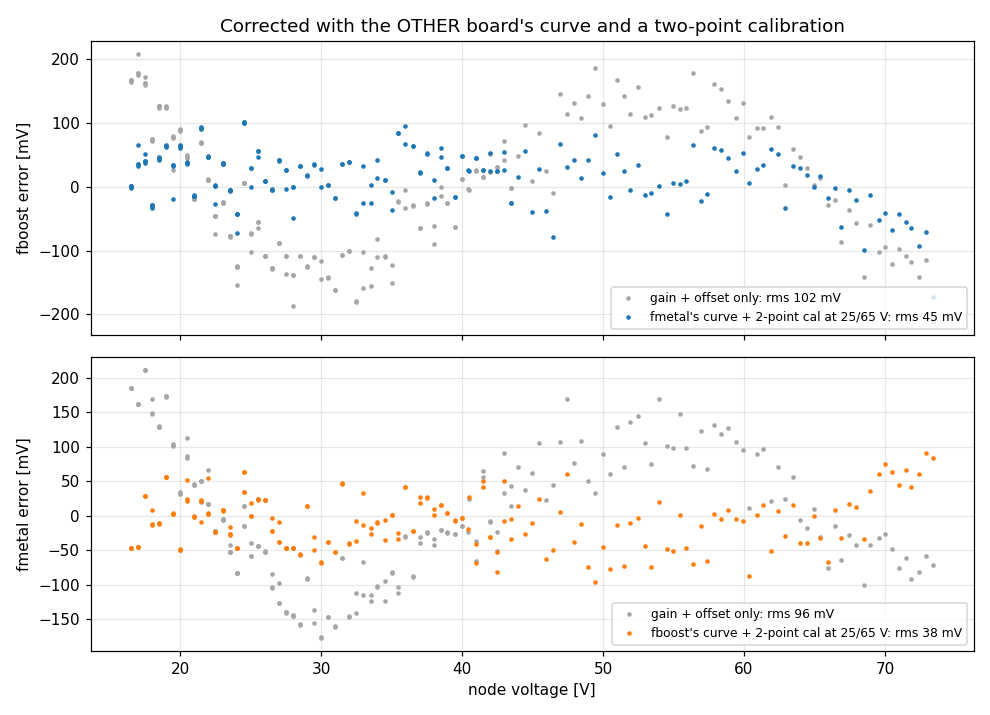
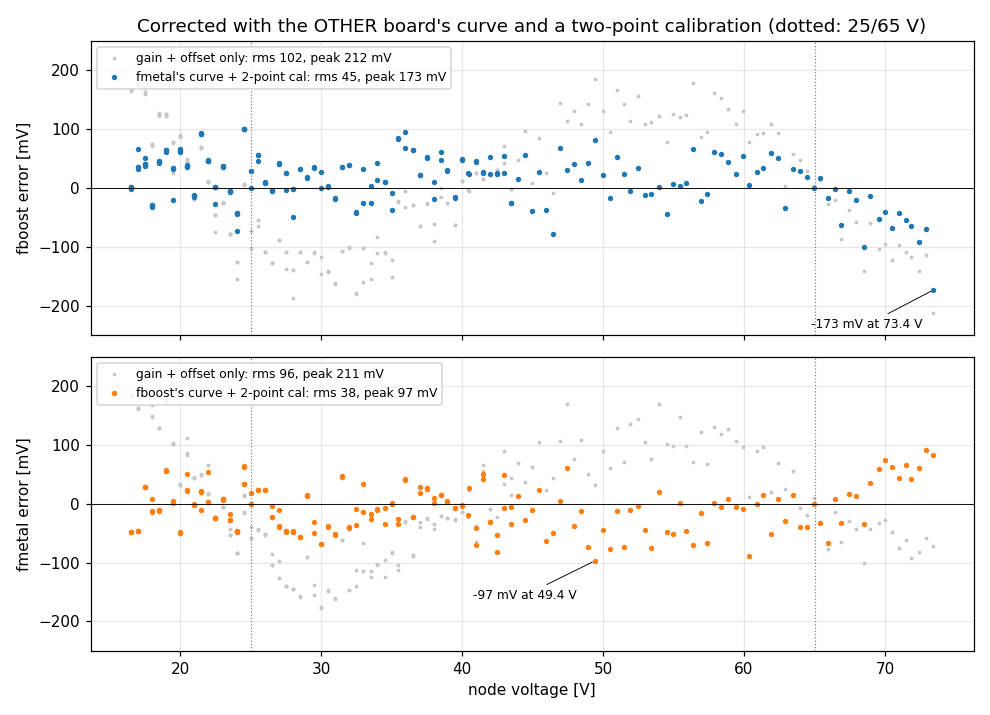
doc: ESP32 ADC -- review fixes, clearer charts, merged firmware and measured board cal
Codex review of be25373:
- range is 16.5-73.4 V at the node (570-2658 mV are IDF readings)
- fboost's worst transfer point is at the top rung, not the bottom
- gain difference: same eFuse point, so board or residual chip -- not separable here
- repeatability holds where the runs overlap (16.5-43.5 V); the 35 mV floor is a
  degree-5 residual, the operating-point cause a hypothesis
- IDF bottom panel limited to the fitted range, detrending convention stated;
  readback compared at the step-1 value
- charts: zero lines, findings in titles, legends off the data, peak in legends,
  25/65 V markers, taper dashed, reference zoom inset, fitted lines on raw error

Firmware is merged (eb8f6a1) and on fboost/fmetal; per-board keys are
hv_v_gain/hv_v_offset; table now holds the measured two-point values.

diff --git a/doc/esp32-adc/plots.py b/doc/esp32-adc/plots.py
@@ -61,11 +61,15 @@ e = line_resid(hh.HP.values, hh.U2.values)
 out['ref'] = (len(hh), rms(e) * 1e3, abs(e).max() * 1e3)
 fig, ax = plt.subplots(figsize=(9, 3.6))
 ax.plot(hh.HP, e * 1e3, '.', color='C2', ms=4)
-ax.set(xlabel='HP3458A [V]', ylabel='INA228_2 INL vs HP3458A [mV]',
-       title='The reference: INA228_2 against the HP3458A, %d rungs (Aug 2026)' % len(hh))
+ax.axhline(0, color='k', lw=.6)
+ax.set(xlabel='HP3458A [V]', ylabel='INA228_2 minus its best line vs HP3458A [mV]',
+       title='The reference is linear: INA228_2 against the HP3458A, %d rungs (Aug 2026)' % len(hh))
 ax.set_ylim(-250, 250); ax.grid(alpha=.3)
-ax.text(.01, .93, 'rms %.2f mV, peak %.2f mV -- on the scale of the plots that follow, flat'
+ax.text(.01, .93, 'best-fit gain and offset removed; rms %.2f mV, peak %.2f mV, flat on the scale of the plots that follow'
         % out['ref'][1:], transform=ax.transAxes, fontsize=9)
+ins = ax.inset_axes([.62, .08, .36, .32])
+ins.plot(hh.HP, e * 1e3, '.', color='C2', ms=2); ins.set_ylim(-2, 2); ins.axhline(0, color='k', lw=.5)
+ins.set_title('zoom ±2 mV', fontsize=8); ins.tick_params(labelsize=7); ins.grid(alpha=.3)
 save(fig, 'reference.png')
 
 # ---------------------------------------------------------------- 2. raw error, both boards
@@ -75,9 +79,14 @@ ax.plot(ga.HP, (ga.fboost - ga.HP) * 1e3, '.', color='0.65', ms=4, label='fboost
 for b in BOARDS:
     g = board(b)
     ax.plot(g.U, (g[b] - g.U) * 1e3, '.', color=COL[b], ms=4, label='%s vs INA228_2 (Oct, dense)' % b)
+for b in BOARDS:
+    g = board(b); co_ = np.polyfit(g.U, g[b] - g.U, 1); xs_ = np.array([g.U.min(), g.U.max()])
+    ax.plot(xs_, np.polyval(co_, xs_) * 1e3, '-', color=COL[b], lw=1,
+            label='%s line: %+.2f %% gain, %+.2f V offset' % (b, co_[0] * 100, co_[1]))
+ax.axhline(0, color='k', lw=.6)
 ax.set(xlabel='node voltage [V]', ylabel='reading - reference [mV]',
-       title='Raw error of the ESP32-S3 ADC1 voltage reading (IDF curve-fitting calibration)')
-ax.grid(alpha=.3); ax.legend(fontsize=8)
+       title='Voltage error after IDF calibration, before board calibration')
+ax.grid(alpha=.3); ax.legend(fontsize=8, loc='upper left')
 save(fig, 'raw-error.png')
 
 # ---------------------------------------------------------------- 3. INL: the shared S-curve
@@ -90,9 +99,10 @@ for b in BOARDS:
     e = line_resid(g.U.values, g[b].values)
     out['inl_' + b] = (rms(e) * 1e3, abs(e).max() * 1e3, len(g))
     ax.plot(g.U, e * 1e3, '.', color=COL[b], ms=4, label='%s (Oct), rms %.0f mV' % (b, rms(e) * 1e3))
-ax.set(xlabel='node voltage [V]', ylabel='INL vs own best line [mV]',
-       title='Same S-curve on both boards, and on fboost two months apart')
-ax.grid(alpha=.3); ax.legend(fontsize=8)
+ax.axhline(0, color='k', lw=.6); ax.set_ylim(-250, 250)
+ax.set(xlabel='node voltage [V]', ylabel='error minus each series\' own best line [mV]',
+       title='Similar S-curve on two boards, and on fboost in August and October')
+ax.grid(alpha=.3); ax.legend(fontsize=8, loc='lower center', ncol=3, bbox_to_anchor=(.5, -.32))
 save(fig, 'inl.png')
 
 # ---------------------------------------------------------------- 4. repeatability across runs
@@ -102,9 +112,13 @@ co = np.polyfit(g.U[run1[g.index]], g.fboost[run1[g.index]], 1)
 for i, (run, gg) in enumerate(g.groupby('run')):
     ax.plot(gg.U, (gg.fboost - np.polyval(co, gg.U)) * 1e3, 'o' if i == 0 else 'x', ms=4,
             label='run %s (%d rungs)' % (run[5:16].replace('T', ' '), len(gg)))
-ax.set(xlabel='node voltage [V]', ylabel='fboost INL vs run-1 line [mV]',
-       title='fboost: four runs over 3 h fall on the same curve')
-ax.grid(alpha=.3); ax.legend(fontsize=8)
+top = g[~run1[g.index]].U.max()
+ax.axvspan(top, g.U.max() + .5, color='0.93', zorder=0)
+ax.text(top + .5, ax.get_ylim()[1] * .9, 'run 1 only', fontsize=8, color='0.4')
+ax.axhline(0, color='k', lw=.6)
+ax.set(xlabel='node voltage [V]', ylabel='fboost error minus run-1 line [mV]',
+       title='fboost: later runs repeat run 1 where they overlap (16.5-%.1f V)' % top)
+ax.grid(alpha=.3); ax.legend(fontsize=8, loc='lower center', ncol=4, bbox_to_anchor=(.5, -.32))
 save(fig, 'repeat.png')
 a = g[run1[g.index]].set_index('count').fboost - np.polyval(co, g[run1[g.index]].set_index('count').U)
 r5 = g[g.run == '2026-10-10T00-29-42Z'].set_index('count')
@@ -148,12 +162,15 @@ for i, b in enumerate(BOARDS):
     a, u = data[i]
     g_, o_ = p[4 + 2 * i:6 + 2 * i]
     ax.plot(a, (u - o_) / g_ - a, '.', color=COL[b], ms=4, label='%s, after its own gain/offset' % b)
-xs = np.linspace(amin - 300, amax + 300, 400)
-ax.plot(xs, dfun(p[:4], xs), 'k-', lw=2, label='universal correction d(mV), tapered to 0 outside the fit range')
-ax.axvspan(amin, amax, color='0.9', zorder=0)
-ax.set(xlabel='ADC pin voltage [mV]', ylabel='correction [mV at the pin]',
-       title='The universal correction: Legendre P2..P5, no gain or offset of its own')
-ax.grid(alpha=.3); ax.legend(fontsize=8)
+xs = np.linspace(amin, amax, 400)
+ax.plot(xs, dfun(p[:4], xs), 'k-', lw=2, label='universal correction d (fitted range)')
+for lo_, hi_ in ((amin - 300, amin), (amax, amax + 300)):
+    xt = np.linspace(lo_, hi_, 60); ax.plot(xt, dfun(p[:4], xt), 'k--', lw=1.2)
+ax.plot([], [], 'k--', lw=1.2, label='taper to 0 (not measured)')
+ax.axvspan(amin, amax, color='0.92', zorder=0); ax.axhline(0, color='k', lw=.6)
+ax.set(xlabel='IDF-reported pin voltage a [mV]', ylabel='correction [mV at the pin]',
+       title='The universal correction: Legendre P2..P5, no gain/offset term over the fit range')
+ax.grid(alpha=.3); ax.legend(fontsize=8, loc='lower center', ncol=2, bbox_to_anchor=(.5, -.35))
 save(fig, 'correction.png')
 
 # ---------------------------------------------------------------- 6. after correction, cross-board
@@ -171,12 +188,18 @@ for hold, ax in zip((0, 1), axs):
     e_line = line_resid(a, u) * K / 1e3 * -1
     out['xfer'][BOARDS[hold]] = (BOARDS[other], rms(e_line) * 1e3, abs(e_line).max() * 1e3,
                                  rms(e_cal) * 1e3, abs(e_cal).max() * 1e3)
-    ax.plot(U, e_line * 1e3, '.', color='0.65', ms=4,
-            label='gain + offset only: rms %.0f mV' % (rms(e_line) * 1e3))
-    ax.plot(U, e_cal * 1e3, '.', color=COL[BOARDS[hold]], ms=4,
-            label="%s's curve + 2-point cal at 25/65 V: rms %.0f mV" % (BOARDS[other], rms(e_cal) * 1e3))
-    ax.set_ylabel('%s error [mV]' % BOARDS[hold]); ax.grid(alpha=.3); ax.legend(fontsize=8)
-axs[0].set_title("Corrected with the OTHER board's curve and a two-point calibration")
+    ax.plot(U, e_line * 1e3, '.', color='0.78', ms=3,
+            label='gain + offset only: rms %.0f, peak %.0f mV' % (rms(e_line) * 1e3, abs(e_line).max() * 1e3))
+    ax.plot(U, e_cal * 1e3, '.', color=COL[BOARDS[hold]], ms=5,
+            label="%s's curve + 2-point cal: rms %.0f, peak %.0f mV" % (
+                BOARDS[other], rms(e_cal) * 1e3, abs(e_cal).max() * 1e3))
+    for v in (25, 65): ax.axvline(v, color='0.5', lw=.8, ls=':')
+    k = np.abs(e_cal).argmax()
+    ax.annotate('%.0f mV at %.1f V' % (e_cal[k] * 1e3, U[k]), (U[k], e_cal[k] * 1e3), fontsize=8,
+                xytext=(-80, -25 if e_cal[k] < 0 else 15), textcoords='offset points', arrowprops=dict(arrowstyle='-', lw=.6))
+    ax.axhline(0, color='k', lw=.6); ax.set_ylim(-250, 250)
+    ax.set_ylabel('%s error [mV]' % BOARDS[hold]); ax.grid(alpha=.3); ax.legend(fontsize=8, loc='upper left')
+axs[0].set_title("Corrected with the OTHER board's curve and a two-point calibration (dotted: 25/65 V)")
 axs[1].set_xlabel('node voltage [V]')
 save(fig, 'after.png')
 
@@ -195,7 +218,7 @@ def idf_err(v):
 def adc_cal(b):
     rows = [l.split() for l in open(os.path.join(HERE, 'data/adc-cal-%s.txt' % b))
             if l.startswith('ADCCAL 3 ')]
-    return np.array([(float(r[3]), float(r[5])) for r in rows])   # mv_idf, curve_mv
+    return np.array([(float(r[3]), float(r[4]), float(r[5])) for r in rows])   # mv_idf, first_step, curve
 
 
 v1 = np.linspace(0, 3420, 800)
@@ -204,27 +227,30 @@ idf_curve = -idf_err(v1)                                 # what IDF adds to the 
 inr = (mv >= amin) & (mv <= amax)
 idf_nl = idf_curve - np.polyval(np.polyfit(mv[inr], idf_curve[inr], 1), mv)
 ours = dfun(p[:4], mv)
-out['idf'] = {b: np.abs(adc_cal(b)[:, 1] - np.interp(adc_cal(b)[:, 0], mv, idf_curve)).max() for b in BOARDS}
+# compare at the first-step value IDF evaluates its polynomial at (the residue is IDF's integer math)
+out['idf'] = {b: np.abs(adc_cal(b)[:, 2] + idf_err(adc_cal(b)[:, 1])).max() for b in BOARDS}
 out['idf_nl'] = [(f[inr].min(), f[inr].max()) for f in (idf_nl, ours, idf_nl + ours)]
 
-fig, axs = plt.subplots(2, 1, figsize=(9, 7.5), sharex=True)
+fig, axs = plt.subplots(2, 1, figsize=(9, 8))
 ax = axs[0]
 ax.plot(mv, idf_curve, '-', color='C0', lw=1.5, label="IDF's fixed curve (same for every ESP32-S3)")
 for b, mk in zip(BOARDS, ('o', 'x')):
     t = adc_cal(b)
-    ax.plot(t[:, 0], t[:, 1], mk, color=COL[b], ms=6, mfc='none', label='read back with adc-cal from %s' % b)
+    ax.plot(t[:, 0], t[:, 2], mk, color=COL[b], ms=6, mfc='none', label='read back with adc-cal from %s' % b)
 ax.plot(mv, ours, 'k-', lw=2, label='our universal correction')
-ax.axvspan(amin, amax, color='0.92', zorder=0)
-ax.set(ylabel='correction added [mV at the pin]',
+ax.axvspan(amin, amax, color='0.92', zorder=0, label='range our correction was fitted on')
+ax.axhline(0, color='k', lw=.6)
+ax.set(xlabel='IDF output [mV at the pin]', ylabel='correction added [mV at the pin]',
        title='12 dB: the correction IDF applies, and ours on top of it')
 ax.grid(alpha=.3); ax.legend(fontsize=8, loc='lower left')
 ax = axs[1]
-m = (mv >= amin - 150) & (mv <= amax + 150)
-ax.plot(mv[m], idf_nl[m], '-', color='C0', lw=1.5, label="IDF's curve, gain/offset removed over the measured range")
+m = inr
+ax.plot(mv[m], idf_nl[m], '-', color='C0', lw=1.5, label="IDF's curve minus its best line over this range")
 ax.plot(mv[m], ours[m], 'k-', lw=2, label='our universal correction')
-ax.plot(mv[m], idf_nl[m] + ours[m], '--', color='C2', lw=1.5, label='total that these chips need (IDF + ours)')
-ax.axvspan(amin, amax, color='0.92', zorder=0)
-ax.set(xlabel='ADC pin voltage (IDF output) [mV]', ylabel='curvature [mV at the pin]')
+ax.plot(mv[m], idf_nl[m] + ours[m], '--', color='C2', lw=1.5, label='IDF + ours (gain/offset terms excluded)')
+ax.axhline(0, color='k', lw=.6); ax.set_ylim(-32, 12); ax.set_xlim(amin, amax)
+ax.set(xlabel='IDF output [mV at the pin], fitted range only', ylabel='curvature [mV at the pin]',
+       title='Zoom on the fitted range, straight-line part removed')
 ax.grid(alpha=.3); ax.legend(fontsize=8, loc='lower left')
 save(fig, 'idf-curve.png')
 

diff --git a/doc/ESP32 ADC Calibration.md b/doc/ESP32 ADC Calibration.md
@@ -2,10 +2,10 @@
 
 The Fugu boards read their high-voltage side (up to ~80 V) through a 200k/7.5k divider into
 ESP32-S3 ADC1 ch3, converted with ESP-IDF's curve-fitting calibration. Two of them, `fboost` and
-`fmetal`, were measured on the same node against an HP3458A-traced reference from 16.5 to 74.5 V.
+`fmetal`, were measured on the same node against an HP3458A-traced reference from 16.5 to 73.4 V.
 
 The ADC has a ±0.2 V S-curve, input-referred, on top of a gain and offset that differ per board.
-The S-curve has the same shape on both chips and stays stable over two months. One fixed
+The S-curve has a similar shape on both chips, and on one of them in August and October. One fixed
 correction curve plus a two-point gain/offset calibration per board brings the error from
 ~100 mV rms to ~40 mV rms, that is, from ~0.25 % to ~0.1 % at 40 V. The correction ships in the
 firmware as an opt-in (`esp32adc1_inl`).
@@ -23,8 +23,9 @@ The table compares each method's error against the reference:
 - Node: the output of `fboost`, driven up a ladder of duty-cycle rungs from a Korad supply (10 V,
   0.75 A). Plan `ina228-u-4ref-dense`: 0.5 V rungs from 16.5 to 77 V, 30 s per rung.
 - Devices under test: `fboost` (`Uo`, sent as BLE advertisements, float16, ~2 Hz) and `fmetal`
-  (`Uo`, WiFi line protocol, 10 mV resolution, ~25 Hz). Both are configured as boosts with
-  `vout_adc=esp32adc1`, `vout_ch=3`, 200k/7.5k. `fmetal` hangs on the node and is powered by it.
+  (`Uo`, WiFi line protocol, 10 mV resolution, ~25 Hz). Both are configured as boosts, so the node
+  is their HV side: ESP32 ADC1 ch3 behind 200k/7.5k (`hv_v_*` keys; `vout_*` at the time of the
+  runs). `fmetal` hangs on the node and is powered by it.
 - Reference: `BLE_ESP32_INA228_2`. A rung's value is the median of each device's readings
   over the rung window, so a rare garbage BLE packet cannot shift it.
 - Data: four dense runs, 2026-10-09/10 (211 rungs for fboost, 201 for fmetal). Run 1 covered
@@ -36,9 +37,11 @@ The table compares each method's error against the reference:
 
 ![INA228_2 against the HP3458A](img/esp32-adc-reference.webp)
 
-Over the same 16–79 V, `INA228_2` sits on a straight line through the HP3458A within
-0.57 mV rms (1.6 mV peak) over 259 rungs. That is about 200× smaller than the effect below, so
-the rest of this article treats the INA228 as the true value.
+Over the same 16–79 V, after removing its best-fit gain and offset, `INA228_2` deviates from the
+HP3458A by 0.57 mV rms (1.6 mV peak) over 259 rungs. That residual non-linearity is about 200×
+smaller than the effect below, so the rest of this article treats the INA228 as the true value.
+This is a linearity statement: the INA228's own gain and offset error (up to ~7 mV here) is
+absorbed into each board's gain and offset.
 
 ## Raw error
 
@@ -46,31 +49,35 @@ the rest of this article treats the INA228 as the true value.
 
 With IDF's calibration and the nominal divider, both boards read 2.6–3.5 % high in gain, with an
 offset of −0.7 to −1.3 V. Uncalibrated, they are off by −0.5 to +1.2 V across the range. That
-part is ordinary gain/offset. It comes from the board, not the chip: both chips carry the same
-factory gain point (see [What IDF's calibration does](#what-idfs-calibration-does)), which leaves
-resistor tolerance and the ADC's 500 kΩ input load. A per-board linear calibration removes it, and
+part is ordinary gain/offset. Both chips carry the same factory gain point (see
+[What IDF's calibration does](#what-idfs-calibration-does)), so IDF converts them with the same
+gain; the measured difference between the boards comes from the divider and its loading, or from
+chip differences the single factory point does not capture. These measurements cannot separate
+the two. A per-board linear calibration removes it, and
 `sensor.conf` could already express that through the divider values.
 
 ## Residual S-curve
 
 ![INL of both boards](img/esp32-adc-inl.webp)
 
-After subtracting each board's own best line, an S-curve remains: +180 mV at 17 V, −150 mV around 30 V,
+After subtracting each series' own best line, an S-curve remains: +180 mV at 17 V, −150 mV around 30 V,
 +130 mV around 50–58 V, −130 mV above 70 V (~100 mV rms, ~215 mV peak). A linear calibration
 cannot remove it. It is worth correcting in firmware because it has:
 
-- The same shape on both boards. fboost and fmetal are different chips on different PCBs.
-- The same shape two months apart. The grey points are fboost against the HP3458A in August, the
+- A similar shape on both boards. fboost and fmetal are different chips on different PCBs.
+- A similar shape two months apart. The grey points are fboost against the HP3458A in August, the
   blue ones fboost against the INA228 in October.
-- The same shape across runs:
+- The same shape across runs, where they overlap:
 
 ![Repeatability](img/esp32-adc-repeat.webp)
 
-Runs taken over three hours fall on the same curve. Even the ~35 mV rung-to-rung scatter that
-remains after a smooth fit repeats: comparing run 1 and run 5 rung by rung, it correlates at 0.89.
-Within a rung the averaging noise is under 2 mV, so the scatter is an operating-point effect,
-fixed for a given duty and voltage. It is neither a smooth function of voltage nor the same on the
-two boards, so a shared correction cannot remove it. This scatter sets the ~35 mV floor.
+Runs taken over three hours fall on the same curve. The later runs were cut short, so this
+holds for 16.5–43.5 V; above that only run 1 exists. A degree-5 fit leaves 33–35 mV rms, and
+that rung-to-rung scatter repeats too: comparing run 1 and run 5 rung by rung over their 55
+common rungs, it correlates at 0.89. So it is not random noise. The likely cause is an
+operating-point effect, fixed for a given duty and voltage (a hypothesis, not tested here). It
+does not follow a smooth function of voltage and differs between the boards, so a shared smooth
+correction leaves it in place. It sets the ~35 mV floor of the results below.
 
 ## The correction
 
@@ -83,15 +90,16 @@ the divider:
 U_true / k  =  g_b · ( a + d(a) )  +  o_b
 ```
 
-- `a`: the pin voltage reported by IDF.
+- `a`: the pin voltage as reported by IDF (not an independently measured pin voltage).
 - `k = 28.07`: the divider, including the ADC's 500 kΩ load.
 - `g_b`, `o_b`: the gain and offset of board `b`.
-- `d`: the shared correction, built from Legendre polynomials P2..P5 only. P0 and P1 are left out,
-  so `d` adds no offset or gain over the fitted range, and every board's gain/offset stays in its
-  own `g_b`, `o_b`.
+- `d`: the shared correction, built from Legendre polynomials P2..P5 only, on the fitted range
+  normalized to −1..1. P0 and P1 are left out, so `d` has no offset or gain term in that basis
+  and every board's gain/offset stays in its own `g_b`, `o_b`. (Against the actual, unevenly
+  spaced rungs a straight-line fit to `d` is not exactly zero, but the board terms absorb it.)
 
 The fit is a joint least-squares fit over both boards' rungs. The curve spans −8.3 to +4.8 mV at
-the pin. There is no data outside the fitted 570–2658 mV, so the firmware fades the edge value to
+the pin. There is no data outside the fitted 570–2658 mV (IDF readings), so the firmware fades the edge value to
 zero over 261 mV, and an unmeasured range reads as it did before the correction.
 
 To check that the curve transfers, the test fits it on one board only and applies it to the other. That board
@@ -104,8 +112,9 @@ gets only a gain and offset from two rungs, at 25 V and 65 V, as a production ca
 | fmetal | 96 / 211 mV | **38 / 97 mV** |
 | fboost | 102 / 212 mV | **45 / 173 mV** |
 
-fboost's worst points sit at its lowest rungs, where fmetal's curve has the fewest supporting
-points. Fitting the curve on both boards, which is what the firmware ships, removes most of that.
+fboost's worst point is −173 mV at 73.4 V, the top rung, where fmetal's curve has the least
+data; the next largest is about +100 mV near 24.5 V. The curve fitted on both boards, which is
+what the firmware ships, brings fboost's maximum to about 108 mV.
 
 ## What IDF's calibration does
 
@@ -123,16 +132,20 @@ attenuation, and IDF's conversion every 256 codes split into the step-1 line and
 (data in `esp32-adc/data/adc-cal-*.txt`). At 12 dB the two chips match exactly: both read code 1019
 at 850 mV (834.15 µV per code), and only the hardware offset code differs (2241 vs 2232). At the
 other attenuations the factory points differ by 1–2 codes. The step-2 curve read back from both
-chips matches the one computed from IDF's source to within 2 mV, IDF's integer arithmetic.
+chips matches the polynomial in IDF's source to within 2 mV when both are evaluated at the same
+step-1 value; the residue is IDF's integer arithmetic.
 
 ![IDF's curve and ours](img/esp32-adc-idf-curve.webp)
 
-Over 0–3100 mV IDF's curve adds +9 to −314 mV (top). Most of that is gain and offset: with those
-removed over the measured range (bottom), IDF bends the transfer by −28 to +9 mV. Our correction
-adds −8 to +5 mV, mostly against IDF's bend: up where IDF bends down below 1300 mV, down where it
-bulges near 2000 mV. The total these two chips need is −24 to +5 mV. In other words, IDF's
-family-average curve over-corrects these chips in the middle of the range, and the universal
-correction takes part of it back.
+The read-back points span +9 to −314 mV between 0 and 3102 mV (top). Most of that is gain and
+offset. The bottom panel removes a least-squares straight line from IDF's curve over the fitted
+range only (a choice of convention: the line is fitted against IDF output, so the numbers shift by
+about 1 mV with other weightings). What is left is IDF's bend, −28 to +9 mV. Our correction adds
+−8 to +5 mV, mostly against that bend: up where IDF bends down below 1300 mV, down where it
+bulges near 2000 mV. The sum is −24 to +5 mV. So through the middle of the range our measured
+correction partly cancels IDF's bend: for these two boards, IDF's family-average curve bends
+too far there. The measurements cover the whole board path (divider, ADC input, chip), so they do
+not show whether the bare chips differ from Espressif's average or the board adds a bend.
 
 ## Integer truncation in the old firmware path
 
@@ -148,8 +161,8 @@ shift moves the curve by less than 0.05 mV and matters only for the per-board of
 
 ## Firmware
 
-Branch `esp32-adc-inl` of fugu-mppt-firmware (commits `582cf8a`, `83d3fa2`). Nothing is
-merged or flashed yet.
+Merged into fugu-mppt-firmware `main` (`eb8f6a1`, together with the HV/LV side-key change).
+fboost and fmetal run it as `fry-brk1-375-geb8f6a14`, with `esp32adc1_inl=1`.
 
 - `src/adc/adc_esp32_cont.cpp`:
   - `buildMvTable()` and `rawToMv()`: the fractional conversion.
@@ -158,7 +171,8 @@ merged or flashed yet.
 - `sensor.conf`:
   - `esp32adc1_inl` (default `0`): applies the correction at 12 dB on ESP32-S3, to every ADC1
     channel.
-  - `<vin|vout>_gain` / `_offset`: per-board, as `V = gain · V_div + offset`.
+  - `<hv_v|lv_v>_gain` / `_offset`: per-board, as `V = gain · V_div + offset`. Keys are named by
+    converter side; on these boost boards the node is the HV side, so `hv_v_gain`/`hv_v_offset`.
 
 Cost: about 0.5 kB of code and 260 B of RAM. The table build runs once (~4k IDF calls) and
 is skipped when `resetPeripherals()` re-enters `start()`. Per sample, the new path is cheaper
@@ -175,15 +189,22 @@ To calibrate a board:
 1. Set `esp32adc1_inl=1` and run the new firmware.
 2. Hold the node at two voltages, about 25 V and 65 V, against a trusted reference. Two rungs
    of a plan like `ina228-u-4ref-dense` are enough.
-3. Fit `gain` and `offset` from the two points and write `vout_gain` / `vout_offset`.
+3. Fit `gain` and `offset` from the two points and write `hv_v_gain` / `hv_v_offset` (or the
+   `lv_v_` keys if the ADC1 channel is on the LV side).
 
-The following values come from these runs, which used the old firmware path. Use them as a starting
-point and re-measure on the new firmware before trusting them.
+Measured on the new firmware with the correction on (2026-10-10): 60 s holds at 25 V and 65 V via
+the converter's own voltage regulation, medians against `BLE_ESP32_INA228_2`; a 45 V hold as the
+check point; written to both boards and verified after a restart at 35 V and 55 V.
 
-| Board | `vout_gain` | `vout_offset` |
-|---|---|---|
-| fboost | 0.973991 | +0.680 V |
-| fmetal | 0.967109 | +1.182 V |
+| Board | `hv_v_gain` | `hv_v_offset` | 45 V check | 35 / 55 V after restart |
+|---|---|---|---|---|
+| fboost | 0.973903 | +0.6714 V | −0.9 mV | −24 / +21 mV |
+| fmetal | 0.969058 | +1.1123 V | −20.3 mV | −14 / −39 mV |
+
+fboost regulated its own reading to each setpoint, and its telemetry is float16 (31 mV steps at
+32–64 V, 62 mV above 64 V), so its 65 V point carries up to about ±30 mV of rounding. fmetal
+reports 10 mV steps, about 3300 readings per window. The fit on the old firmware's data
+predicted fboost 0.973991 / +0.680 V and fmetal 0.967109 / +1.182 V.
 
 ## Limits and open questions
 
@@ -193,12 +214,13 @@ point and re-measure on the new firmware before trusting them.
   board, ideally on another channel or with different divider values, would settle it.
 - Attenuation: everything here is at 12 dB, the attenuation these dividers need. IDF's curve and
   the factory points differ at the other attenuations, and the correction is not applied there.
-- Range: 16.5–74.5 V, that is, 570–2658 mV at the pin, with a single rung above 73 V. Below and
+- Range: 16.5–73.4 V at the node, 570–2658 mV as read by IDF. Below and
   above that range, the correction fades out; nothing there was measured.
 - Other channels: the correction applies to NTC and to current channels on ADC1 as well.
   For NTC that is a 0.06–0.4 K shift (estimate, unmeasured). For current channels it is untested.
-- The ~35 mV floor is repeatable per operating point. Removing it would take a correction
-  indexed by operating point instead of voltage.
+- The ~35 mV floor (degree-5 residual) repeated between runs over 16.5–43.5 V. If it is an
+  operating-point effect, removing it would take a correction indexed by operating point instead
+  of voltage; that is untested.
 - fboost's float16 telemetry quantizes at 31 mV between 32 and 64 V. With medians over
   30–60 readings per rung this adds a bias of at most half a step: small next to the floor, but
   not zero.
